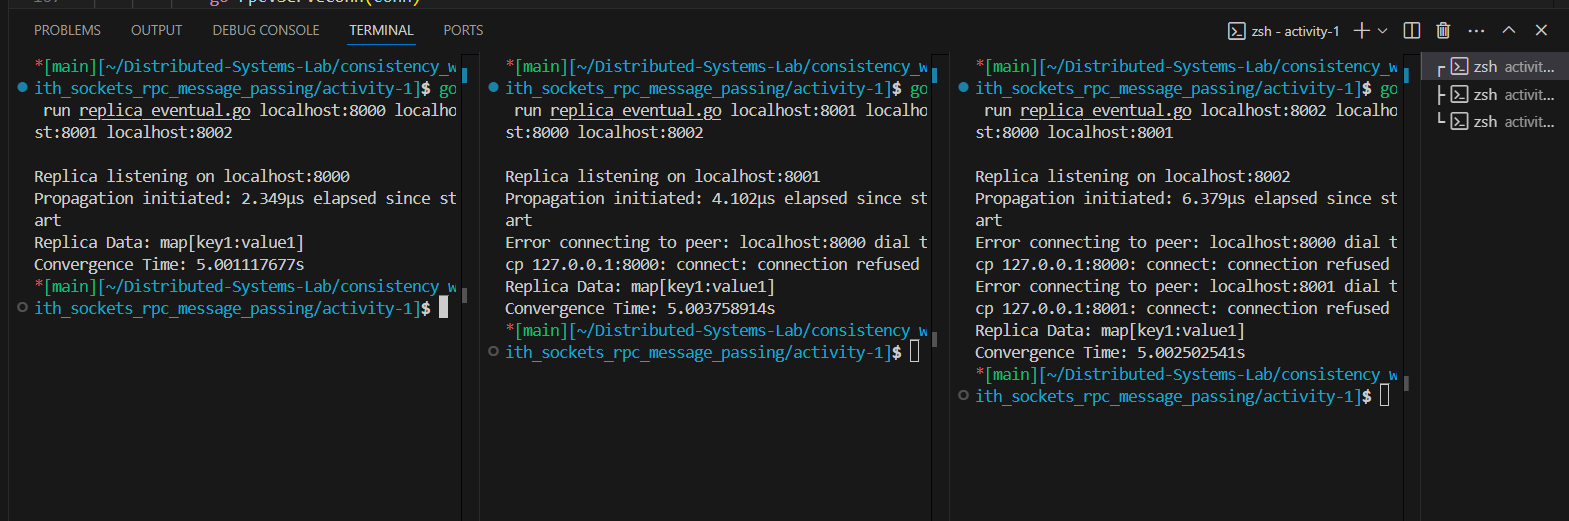
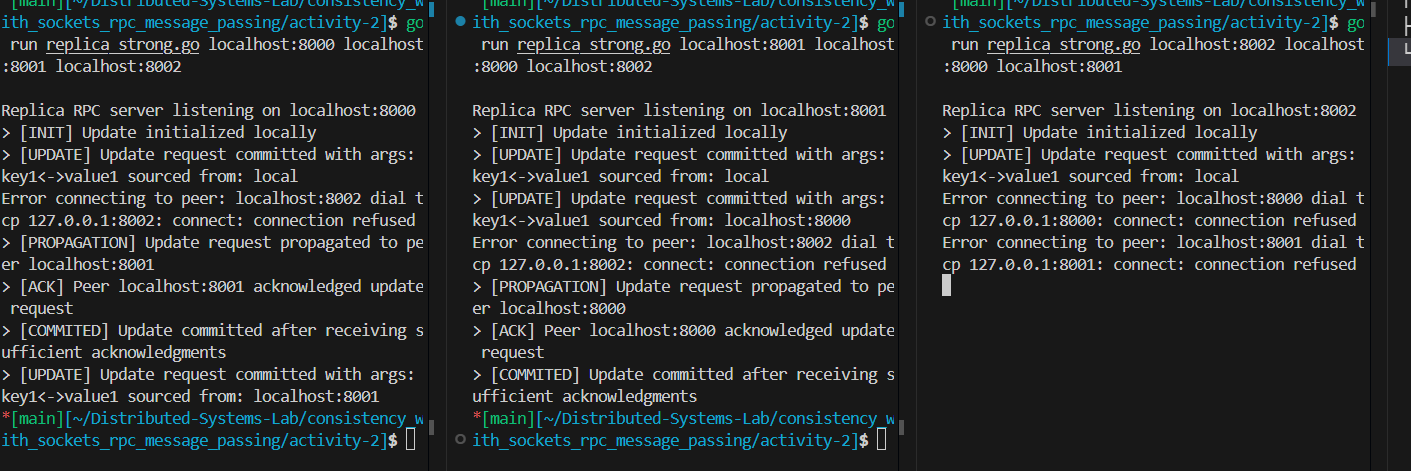
chore: finished activity-2

Changed region(s): [[0.0, 0.0, 1.0, 0.9512], [0.3118, 0.7431, 0.6549, 0.9512]]

diff --git a/consistency_with_sockets_rpc_message_passing/activity-2/replica_strong.go b/consistency_with_sockets_rpc_message_passing/activity-2/replica_strong.go
@@ -6,36 +6,38 @@ import (
 	"net/rpc"
 	"os"
 	"sync"
+	"time" // Importing "time"
 )
 
-// Replica represents a node in the distributed system
 type Replica struct {
 	data    map[string]string
 	mu      sync.Mutex
-	peers   []string // List of peer addresses
+	peers   []string
 	ackLock sync.Mutex
-	acks    map[string]int // Track acknowledgments
+	acks    map[string]int // track acknowledgements
 }
 
-// Args defines the key-value pair for updates
 type Args struct {
-	Key   string
-	Value string
+	Key    string
+	Value  string
+	Source string // Adding "Source" field
 }
 
-// Update is an RPC method to apply an update on the replica
 func (r *Replica) Update(args *Args, reply *bool) error {
+	fmt.Println("> [UPDATE] Update request committed with args: " + args.Key + "<->" + args.Value + " sourced from: " + args.Source) // Printing source
 	r.mu.Lock()
 	defer r.mu.Unlock()
 	r.data[args.Key] = args.Value
-	*reply = true // Indicate success
+	if reply != nil {
+		*reply = true
+	}
 	return nil
 }
 
-// propagateUpdates sends updates to all peers using RPC
-func (r *Replica) propagateUpdates(key, value string) {
+func (r *Replica) propagateUpdates(key, value, machineAddress string) { // Adding "machineAddress" parameter
+	time.Sleep(4 * time.Second) // Adding delay
 	r.ackLock.Lock()
-	r.acks[key] = 0 // Initialize acknowledgment count for this key
+	r.acks[key] = 0
 	r.ackLock.Unlock()
 
 	for _, peer := range r.peers {
@@ -45,28 +47,30 @@ func (r *Replica) propagateUpdates(key, value string) {
 				fmt.Println("Error connecting to peer:", peer, err)
 				return
 			}
-			defer client.Close()
 
-			args := &Args{Key: key, Value: value}
-			var reply bool
+			defer client.Close()
+			args := &Args{Key: key, Value: value, Source: machineAddress} // Adding "Source" field
+			var reply bool = false
 			err = client.Call("Replica.Update", args, &reply)
+			fmt.Println("> [PROPAGATION] Update request propagated to peer " + peer) // Printing propagation
 			if err == nil && reply {
+				fmt.Println("> [ACK] Peer " + peer + " acknowledged update request") // Printing acknowledgment
 				r.ackLock.Lock()
-				r.acks[key]++ // Increment acknowledgment count on success
+				r.acks[key]++
 				r.ackLock.Unlock()
 			}
 		}(peer)
 	}
 }
 
-// waitForAcknowledgments waits for the required number of acknowledgments
-func (r *Replica) waitForAcknowledgments(key string, required int) {
+func (r *Replica) waitForAcknowledgements(key string, quorum int) { // Adding quorum parameter
 	for {
 		r.ackLock.Lock()
-		if r.acks[key] >= required {
+		if r.acks[key] >= quorum { // Using quorum
 			r.ackLock.Unlock()
 			break
 		}
+
 		r.ackLock.Unlock()
 	}
 }
@@ -77,41 +81,43 @@ func main() {
 		return
 	}
 
-	// Parse command-line arguments
 	machineAddr := os.Args[1]
 	peers := os.Args[2:]
 
-	// Initialize the replica
 	replica := &Replica{
 		data:  make(map[string]string),
 		peers: peers,
 		acks:  make(map[string]int),
 	}
+
 	rpc.Register(replica)
 
-	// Start the RPC server
 	listener, err := net.Listen("tcp", machineAddr)
 	if err != nil {
 		panic(err)
 	}
-	defer listener.Close()
-	fmt.Printf("Replica RPC Server listening on %s\n", machineAddr)
 
-	// Accept connections and serve RPC requests
+	defer listener.Close()
+	fmt.Printf("Replica RPC server listening on %s\n", machineAddr)
+
 	go func() {
 		for {
 			conn, err := listener.Accept()
 			if err != nil {
 				continue
 			}
+
 			go rpc.ServeConn(conn)
 		}
 	}()
 
-	// Simulate a strong consistency update
 	key, value := "key1", "value1"
-	replica.Update(&Args{Key: key, Value: value}, nil)
-	replica.propagateUpdates(key, value)
-	replica.waitForAcknowledgments(key, len(replica.peers))
-	fmt.Println("Update committed after receiving acknowledgments")
+	fmt.Println("> [INIT] Update initialized locally") // Printing initialization
+	replica.Update(&Args{Key: key, Value: value, Source: "local"}, nil) // Adding "Source" field
+	replica.propagateUpdates(key, value, machineAddr) // Adding "machineAddress" parameter
+
+	var Q int = (len(replica.peers) / 2) // Calculating quorum
+	replica.waitForAcknowledgements(key, Q) // Using quorum
+	fmt.Println("> [COMMITED] Update committed after receiving sufficient acknowledgments") // Printing commit
+	time.Sleep(5 * time.Second) // Adding delay
 }
